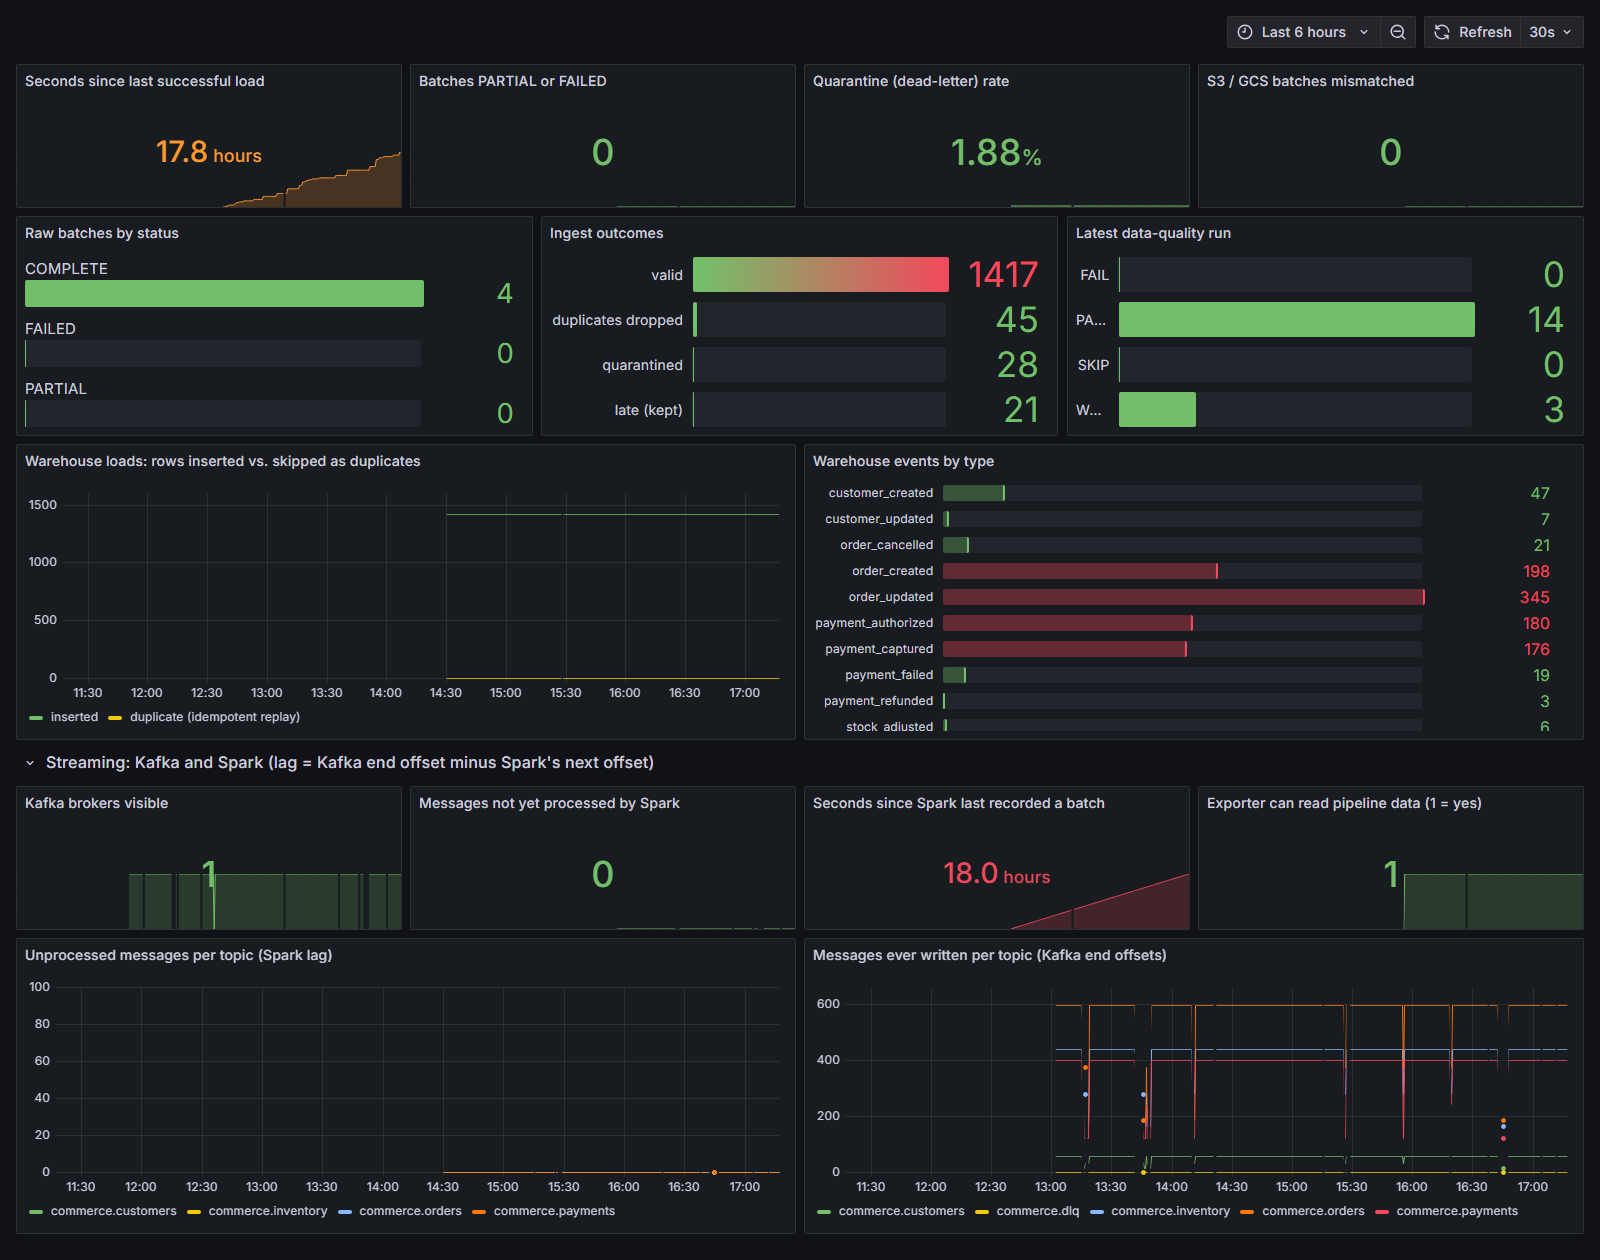
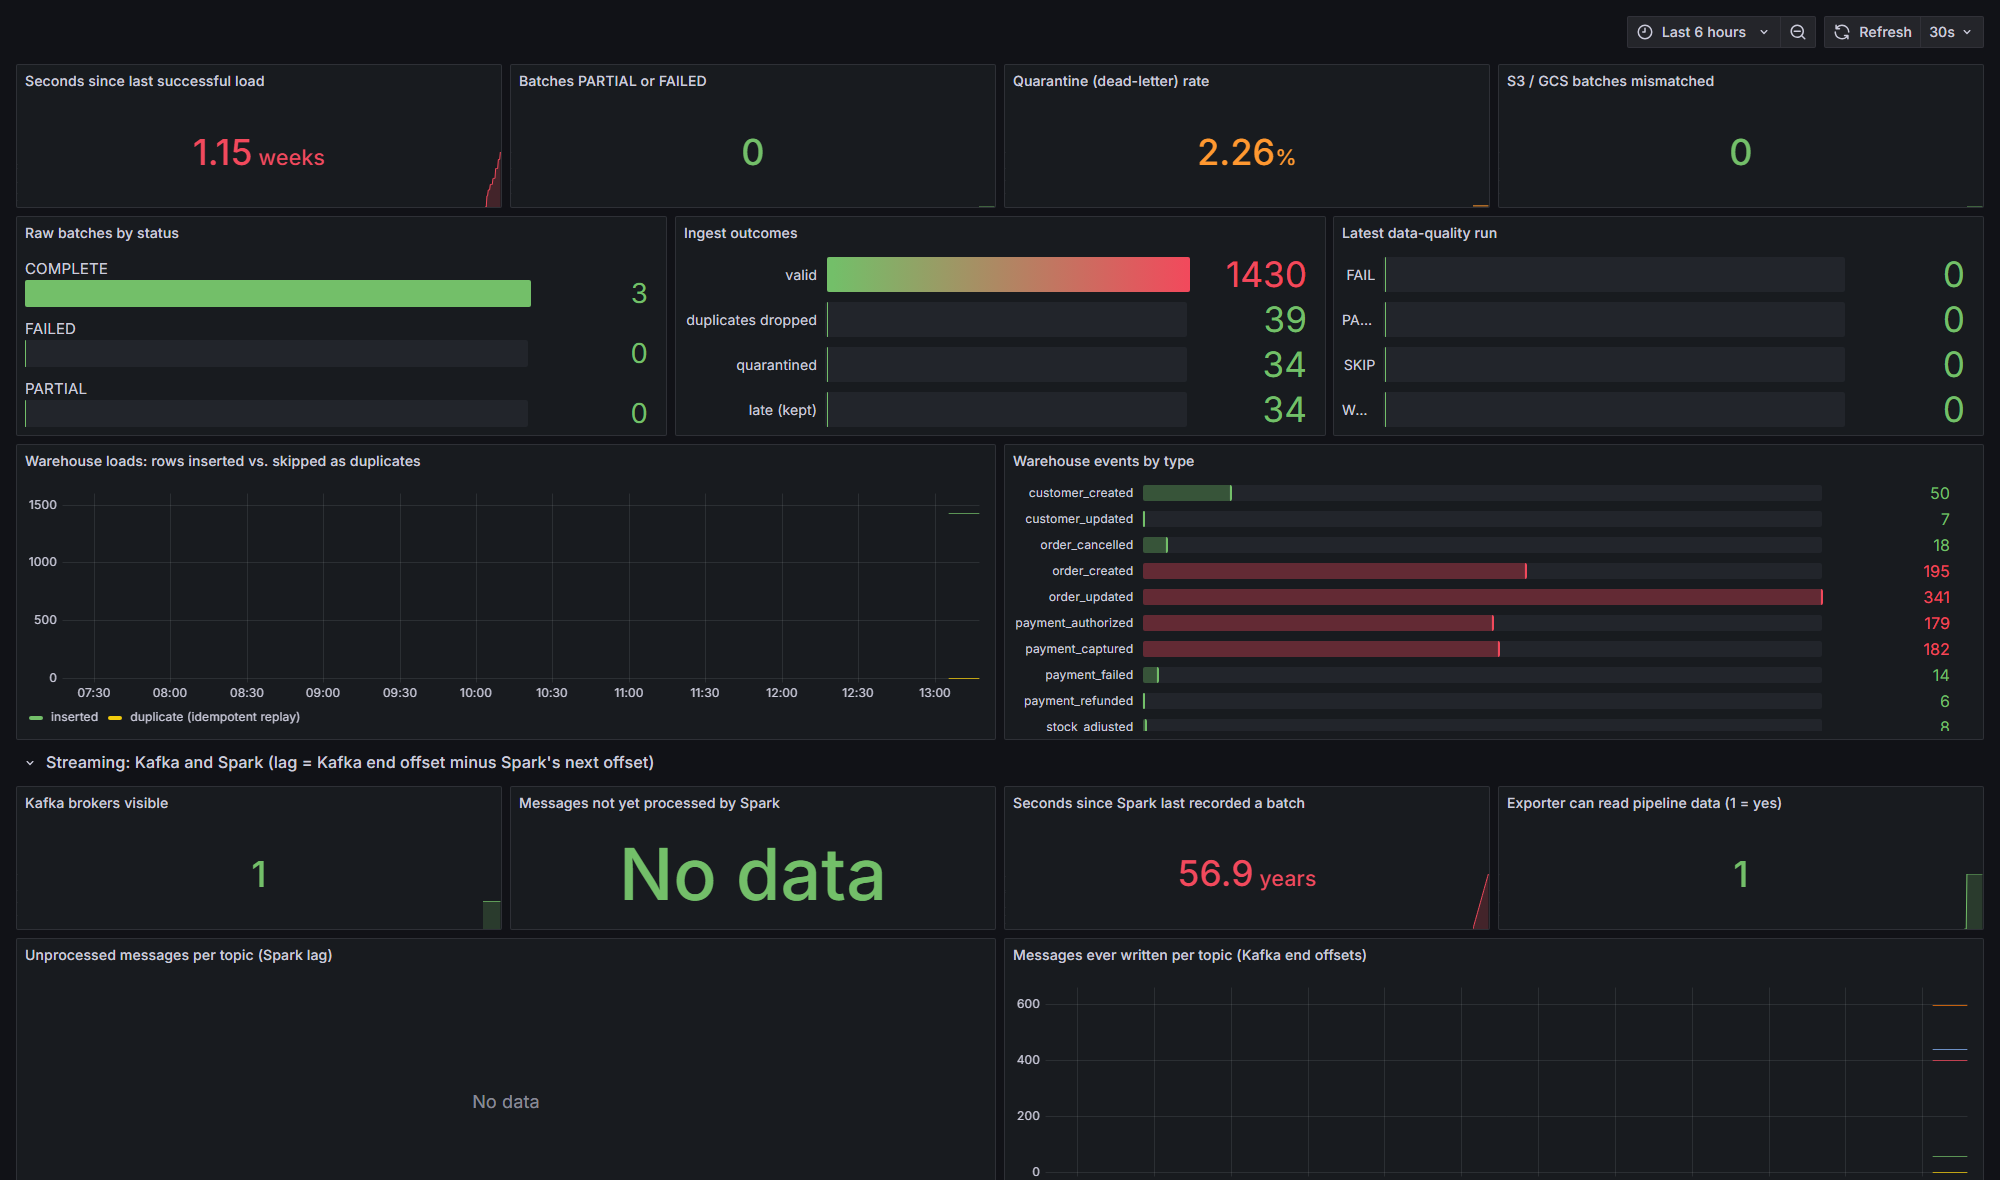
Add the remaining local screenshots and the selectors that captured them

diff --git a/scripts/capture_screenshots.py b/scripts/capture_screenshots.py
@@ -16,6 +16,8 @@ from __future__ import annotations
 import contextlib
 import sys
 import time
+import urllib.error
+import urllib.request
 from collections.abc import Callable
 from pathlib import Path
 
@@ -28,7 +30,12 @@ OUT = ROOT / "docs" / "images"
 GRAFANA = "http://127.0.0.1:3000"
 METABASE = "http://127.0.0.1:3001"
 KAFKA_UI = "http://127.0.0.1:8080"
+MINIO_CONSOLE = "http://127.0.0.1:9001"
+AIRFLOW_UI = "http://127.0.0.1:8081"
+DBT_DOCS = "http://127.0.0.1:8082"
 GRAFANA_DASHBOARD = "/d/ecomm-pipeline-health"
+ROOT_ENV = ROOT / "docker" / "minio" / ".env.root"
+MINIO_BUCKET = "ecomm-raw-minio"
 WIDE = {"width": 1600, "height": 1000}
 # A page load took 33 s on the 5 GB development machine while Kafka was busy, so be generous.
 LOAD_MS = 180_000
@@ -50,6 +57,23 @@ def step(message: str) -> None:
     print(f"[{time.strftime('%H:%M:%S')}] {message}", flush=True)
 
 
+def wait_for_service(url: str, name: str, *, timeout_s: int = 180) -> None:
+    """Wait for a live service before navigating; fail with its URL instead of a vague timeout."""
+    deadline = time.monotonic() + timeout_s
+    last: str = "no response"
+    while time.monotonic() < deadline:
+        try:
+            with urllib.request.urlopen(url, timeout=10) as response:  # noqa: S310 - loopback
+                if response.status < 500:
+                    step(f"{name}: ready ({response.status})")
+                    return
+                last = f"HTTP {response.status}"
+        except (urllib.error.URLError, TimeoutError, OSError) as exc:
+            last = str(exc)[:160]
+        time.sleep(3)
+    sys.exit(f"{name} is not ready at {url} after {timeout_s}s ({last})")
+
+
 def new_page(browser: Browser, viewport: dict[str, int] | None = None) -> Page:
     page = browser.new_context(viewport=viewport or WIDE, device_scale_factor=1).new_page()
     page.set_default_navigation_timeout(LOAD_MS)
@@ -61,26 +85,30 @@ def new_page(browser: Browser, viewport: dict[str, int] | None = None) -> Page:
 
 
 def grafana(browser: Browser) -> list[Path]:
+    wait_for_service(f"{GRAFANA}/api/health", "Grafana")
     password = read_env(ROOT / "docker" / "monitoring" / ".env")["GF_SECURITY_ADMIN_PASSWORD"]
-    page = new_page(browser)
+    page = new_page(browser, {"width": 2000, "height": 1200})
     page.goto(f"{GRAFANA}/login")
     page.locator("input[name='user']").fill("admin")
     page.locator("input[name='password']").fill(password)
     page.locator("button[type='submit']").click()
     page.wait_for_url(lambda url: "/login" not in url, timeout=30_000)
     page.goto(f"{GRAFANA}{GRAFANA_DASHBOARD}?orgId=1&kiosk", wait_until="domcontentloaded")
-    # Grafana keeps polling, so "network idle" never happens. Panels query Prometheus after the
-    # page loads: give them time to draw (the result is checked by eye).
-    page.wait_for_timeout(15_000)
+    # Grafana keeps polling, so "network idle" never happens. Wait for a real panel title, not
+    # just the time picker, or the capture is an empty canvas.
+    try:
+        page.get_by_text("Pipeline").first.wait_for(state="visible", timeout=60_000)
+    except PlaywrightTimeout:
+        sys.exit("grafana: the dashboard panels never appeared; not capturing an empty canvas")
+    page.get_by_text("Seconds since last successful load").first.wait_for(state="visible")
+    page.wait_for_timeout(4_000)
     target = OUT / "grafana-pipeline-health.png"
-    # Crop the empty space below the last row of panels (height found by looking at the page).
-    page.screenshot(
-        path=target, full_page=True, clip={"x": 0, "y": 0, "width": 1600, "height": 1260}
-    )
+    page.screenshot(path=target, clip={"x": 0, "y": 0, "width": 2000, "height": 1180})
     return [target]
 
 
 def metabase(browser: Browser) -> list[Path]:
+    wait_for_service(f"{METABASE}/api/health", "Metabase")
     bi = read_env(ROOT / "docker" / "bi" / ".env")
     page = new_page(browser, {"width": 1400, "height": 2300})
     page.goto(f"{METABASE}/auth/login")
@@ -91,15 +119,154 @@ def metabase(browser: Browser) -> list[Path]:
     # Dashboard id 2 is what `ecomm-bi provision` prints on a fresh instance.
     page.goto(f"{METABASE}/dashboard/2")
     page.wait_for_selector("[data-testid='dashboard-grid']", timeout=60_000)
-    with contextlib.suppress(PlaywrightTimeout):  # nothing left loading, or settle time below
-        page.wait_for_selector(
-            "[data-testid='loading-indicator']", state="detached", timeout=30_000
+    # The chrome appears before the questions return. Wait for the published total
+    # ($50,186.26 net sales) so a skeleton dashboard is not saved as proof.
+    # Cards below the first row stay skeletons until they have been on screen.
+    for _ in range(6):
+        page.mouse.wheel(0, 500)
+        page.wait_for_timeout(1_000)
+    page.evaluate("window.scrollTo(0, 0)")
+    try:
+        page.wait_for_function(
+            """() => {
+                const text = document.body.innerText;
+                return text.includes('50,186.26')
+                    && text.includes('Urban Charger')
+                    && text.includes('out_of_stock');
+            }""",
+            timeout=120_000,
         )
-    page.wait_for_timeout(10_000)  # charts draw after the questions return
+    except PlaywrightTimeout:
+        debug = OUT / "_metabase-debug.png"
+        page.screenshot(path=debug, full_page=True)
+        sys.exit(f"metabase: the dashboard numbers never appeared; debug shot at {debug}")
+    with contextlib.suppress(PlaywrightTimeout):
+        page.get_by_label("Close").click(timeout=2_000)
+    page.wait_for_timeout(2_000)
     target = OUT / "metabase-business-overview.png"
-    page.screenshot(
-        path=target, full_page=True, clip={"x": 0, "y": 0, "width": 1400, "height": 1920}
+    page.screenshot(path=target, full_page=True)
+    return [target]
+
+
+# --- MinIO console ------------------------------------------------------------------------
+
+
+def dismiss_minio_notice(page: Page) -> None:
+    """The console covers the object list with a license dialog."""
+    clicked = page.evaluate(
+        """() => {
+            const nodes = [...document.querySelectorAll('button, [role=button], a')];
+            const hit = nodes.find(n => /acknowledge|i understand/i.test(n.innerText || ''));
+            if (!hit) return false;
+            hit.click();
+            return true;
+        }"""
     )
+    if clicked:
+        page.wait_for_timeout(1_500)
+        step("minio: dismissed the license dialog")
+
+
+def minio(browser: Browser) -> list[Path]:
+    wait_for_service(f"{MINIO_CONSOLE}/minio/health/live", "MinIO")
+    root = read_env(ROOT_ENV)
+    page = new_page(browser)
+    step("minio: opening the console")
+    page.goto(f"{MINIO_CONSOLE}/login", wait_until="domcontentloaded")
+    page.locator("input[name='accessKey']").fill(root["MINIO_ROOT_USER"])
+    page.locator("input[name='secretKey']").fill(root["MINIO_ROOT_PASSWORD"])
+    login = page.locator("button#login")
+    if login.count():
+        login.click()
+    else:
+        page.get_by_role("button", name="Login").click()
+    page.wait_for_url(lambda url: "/login" not in url, timeout=LOAD_MS)
+    dismiss_minio_notice(page)
+    page.goto(f"{MINIO_CONSOLE}/browser/{MINIO_BUCKET}", wait_until="domcontentloaded")
+    dismiss_minio_notice(page)
+    if page.get_by_role("heading", name="License").count():
+        dismiss_minio_notice(page)
+    if page.get_by_role("heading", name="License").is_visible():
+        sys.exit("minio: the license dialog is still covering the bucket; not capturing")
+    try:
+        page.get_by_text("manifests", exact=True).first.wait_for(state="visible")
+        page.get_by_text("raw", exact=True).first.wait_for(state="visible")
+    except PlaywrightTimeout:
+        sys.exit("minio: the bucket folders never appeared; not capturing a login or overlay")
+    step("minio: bucket folders are there")
+    dismiss_minio_notice(page)
+    page.wait_for_timeout(1_000)
+    if page.get_by_text("What is the GNU AGPL").count():
+        dismiss_minio_notice(page)
+        page.wait_for_timeout(1_000)
+    if page.get_by_text("What is the GNU AGPL").count():
+        sys.exit("minio: the license dialog is still covering the bucket; not capturing")
+    target = OUT / "minio-raw-bucket.png"
+    page.screenshot(path=target, clip={"x": 0, "y": 0, "width": 1600, "height": 900})
+    return [target]
+
+
+def airflow(browser: Browser) -> list[Path]:
+    wait_for_service(f"{AIRFLOW_UI}/health", "Airflow")
+    env = read_env(ROOT / "docker" / "airflow" / ".env")
+    page = new_page(browser)
+    step("airflow: opening the real Airflow UI")
+    page.goto(f"{AIRFLOW_UI}/login/", wait_until="domcontentloaded")
+    # The login form is a Flask-AppBuilder submit input, not a labeled button.
+    # The generated admin user is "admin" (see docker/airflow/init.sh).
+    page.locator("#username").fill("admin", timeout=30_000)
+    page.locator("#password").fill(env["AIRFLOW_ADMIN_PASSWORD"])
+    page.locator("input[type='submit']").click()
+    page.wait_for_url(lambda url: "/login" not in url, timeout=60_000)
+    page.goto(
+        f"{AIRFLOW_UI}/dags/raw_to_warehouse_daily/grid",
+        wait_until="domcontentloaded",
+    )
+    try:
+        page.get_by_text("raw_to_warehouse_daily").first.wait_for(state="visible", timeout=60_000)
+    except PlaywrightTimeout:
+        debug = OUT / "_airflow-debug.png"
+        page.screenshot(path=debug, full_page=True)
+        sys.exit(f"airflow: the DAG page never appeared; debug shot at {debug}")
+    page.wait_for_timeout(2_000)
+    target = OUT / "airflow-dag-runs.png"
+    page.screenshot(path=target, clip={"x": 0, "y": 0, "width": 1600, "height": 900})
+    return [target]
+
+
+def dbt(browser: Browser) -> list[Path]:
+    wait_for_service(DBT_DOCS, "dbt docs server")
+    page = new_page(browser)
+    page.goto(f"{DBT_DOCS}/#!/model/model.ecomm.fct_orders", wait_until="domcontentloaded")
+    try:
+        page.get_by_text("fct_orders", exact=True).first.wait_for(state="visible")
+    except PlaywrightTimeout:
+        sys.exit("dbt: the docs page never rendered; not capturing a blank server")
+    lineage = page.get_by_title("View lineage graph")
+    if not lineage.count():
+        lineage = page.get_by_role("button", name="Lineage")
+    if lineage.count():
+        lineage.first.click()
+        page.wait_for_timeout(2_000)
+    step("dbt: lineage page is open")
+    target = OUT / "dbt-lineage.png"
+    page.screenshot(path=target, clip={"x": 0, "y": 0, "width": 1600, "height": 1000})
+    return [target]
+
+
+def ci(browser: Browser) -> list[Path]:
+    page = new_page(browser)
+    page.goto(
+        "https://github.com/AAliKKhan/multicloud-ecommerce-data-platform/actions",
+        wait_until="domcontentloaded",
+    )
+    try:
+        page.get_by_text("All workflows").first.wait_for(state="visible")
+    except PlaywrightTimeout:
+        sys.exit("ci: the Actions page never rendered; not capturing a blank or login wall")
+    page.wait_for_timeout(3_000)
+    target = OUT / "github-actions-ci.png"
+    page.screenshot(path=target, clip={"x": 0, "y": 0, "width": 1600, "height": 1000})
     return [target]
 
 
@@ -107,6 +274,7 @@ def metabase(browser: Browser) -> list[Path]:
 
 
 def kafka(browser: Browser) -> list[Path]:
+    wait_for_service(f"{KAFKA_UI}/actuator/health", "Kafka UI")
     page = new_page(browser)
     step("kafka: opening the topics page")
     page.goto(f"{KAFKA_UI}/ui/clusters/local/all-topics?perPage=25", wait_until="domcontentloaded")
@@ -141,8 +309,12 @@ def kafka(browser: Browser) -> list[Path]:
 
 TARGETS: dict[str, Callable[[Browser], list[Path]]] = {
     "kafka": kafka,
+    "minio": minio,
+    "airflow": airflow,
+    "dbt": dbt,
     "grafana": grafana,
     "metabase": metabase,
+    "ci": ci,
 }
 
 
